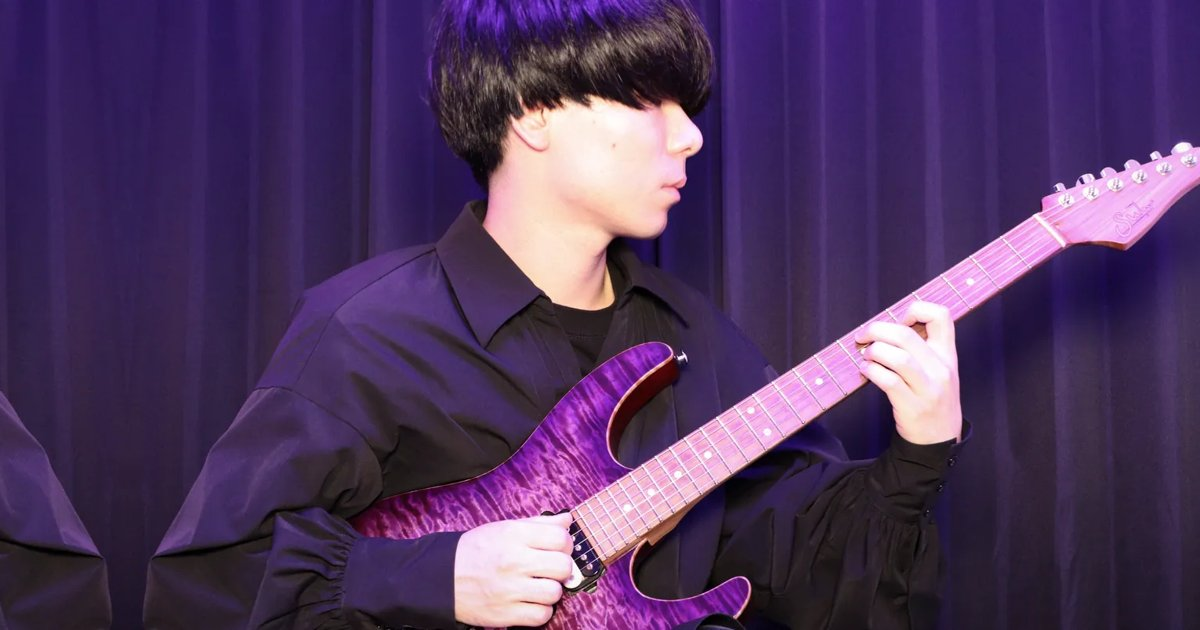
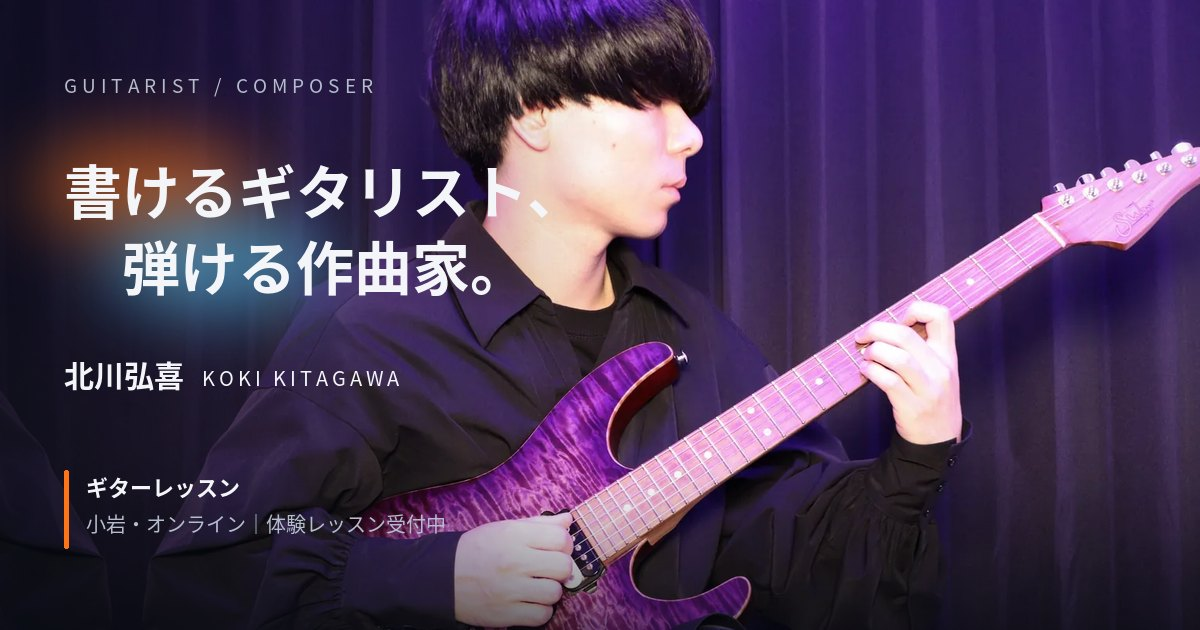
共有したときの見え方とアイコン、404ページを整える：共有画像に名前とキャッチ、ホーム画面・タブのアイコン、迷子のページ（LINE・Xで送られたときにだれのページか一目で分かり、間違ったURLでも迷わないように）
- 共有画像（img/ogp.jpg）：トップの写真に「書けるギタリスト、弾ける作曲家。」「北川弘喜」「ギターレッスン 小岩・オンライン」を入れた（tools/make-share-images.py で作る）
- og:site_name・og:locale・画像の大きさと説明を追加
- アイコン：タブ（favicon.svg／favicon-48.png）、ホーム画面（apple-touch-icon.png）、Android 用（icon-192／512・site.webmanifest）。弦3本（白・オレンジ・水色）。本人のイラスト版は後で差し替え予定
- 404.html：見つからないときのページ（トップへ戻る・体験レッスン・お問い合わせ）

Claude-Session: https://claude.ai/code/session_01EAvGth7ZWopaKH8TuJXvXX

Changed region(s): [[0.0, 0.0, 0.6475, 1.0], [0.3083, 0.0, 0.3392, 0.0302]]

diff --git a/index.html b/index.html
@@ -8,11 +8,16 @@
 <title>北川弘喜 | ギタリスト・作曲家／小岩・オンラインのギターレッスン Koki Kitagawa</title>
 <meta name="description" content="書けるギタリスト、弾ける作曲家。北川弘喜（Koki Kitagawa）の公式サイト。ライブ・舞台・TVでのサポートギター、作詞・作曲・編曲。ギターレッスンは小岩（JR小岩駅近くのスタジオ）とオンラインで、初心者からプロ志向まで。">
 <meta property="og:type" content="website">
+<meta property="og:site_name" content="北川弘喜 Koki Kitagawa">
+<meta property="og:locale" content="ja_JP">
 <meta property="og:title" content="北川弘喜 Koki Kitagawa | 書けるギタリスト、弾ける作曲家。">
 <meta property="og:description" content="ライブ・舞台・TVのサポートギター、作詞・作曲・編曲、ギターレッスン。">
 <link rel="canonical" href="https://kokikitagawa.com/">
 <meta property="og:url" content="https://kokikitagawa.com/">
 <meta property="og:image" content="https://kokikitagawa.com/img/ogp.jpg">
+<meta property="og:image:width" content="1200">
+<meta property="og:image:height" content="630">
+<meta property="og:image:alt" content="ギターを弾く北川弘喜。書けるギタリスト、弾ける作曲家。">
 <meta name="twitter:card" content="summary_large_image">
 <script type="application/ld+json">{"@context":"https://schema.org","@type":"Person","name":"北川弘喜","alternateName":"Koki Kitagawa","jobTitle":["ギタリスト","作曲家","編曲家","ギター講師"],"description":"書けるギタリスト、弾ける作曲家。ライブ・舞台・TVのサポートギター、作詞・作曲・編曲、ギターレッスン。","address":{"@type":"PostalAddress","addressRegion":"東京都","addressLocality":"江戸川区"},"url":"https://kokikitagawa.com/","sameAs":["https://www.instagram.com/kitagawa_kouki/","https://www.tiktok.com/@koki.kitagawa","https://x.com/Gt_koki_","https://www.youtube.com/@KokiKitagawa","https://open.spotify.com/playlist/4vF3Pt0G9U2wvwlmTueu7q"]}</script>
 <script type="application/ld+json">{"@context":"https://schema.org","@type":"Service","name":"北川弘喜のギターレッスン（小岩・オンライン）","serviceType":"ギターレッスン","provider":{"@type":"Person","name":"北川弘喜","url":"https://kokikitagawa.com/"},"areaServed":[{"@type":"Place","name":"東京都江戸川区 小岩"},{"@type":"Place","name":"オンライン"}],"availableChannel":{"@type":"ServiceChannel","serviceLocation":{"@type":"Place","name":"サウンドスタジオM小岩店","address":{"@type":"PostalAddress","addressRegion":"東京都","addressLocality":"江戸川区","streetAddress":"西小岩1-27-16 オルフェウスビル4F"}}},"offers":[{"@type":"Offer","name":"体験レッスン（60分）","price":3500,"priceCurrency":"JPY"},{"@type":"Offer","name":"単発レッスン（60分）","price":9000,"priceCurrency":"JPY"}],"url":"https://kokikitagawa.com/#lesson"}</script>
@@ -20,8 +25,12 @@
 <link rel="preconnect" href="https://fonts.gstatic.com" crossorigin>
 <link href="https://fonts.googleapis.com/css2?family=Archivo:wdth,wght@62..125,300..900&family=Zen+Kaku+Gothic+New:wght@400;500;700;900&family=Mrs+Saint+Delafield&display=swap" rel="stylesheet">
 <link rel="icon" href="assets/favicon.svg" type="image/svg+xml">
+<link rel="icon" href="assets/favicon-48.png" sizes="48x48" type="image/png">
+<link rel="apple-touch-icon" href="assets/apple-touch-icon.png">
+<link rel="manifest" href="site.webmanifest">
+<meta name="apple-mobile-web-app-title" content="北川弘喜">
 <link rel="stylesheet" href="assets/css/kk-design-system.css?v=69foca">
-<link rel="stylesheet" href="assets/css/site.css?v=19stlfs">
+<link rel="stylesheet" href="assets/css/site.css?v=127jznu">
 <style>.ph-guitar::before{background-image:url("img/guitar-900.webp")}.ph-studio::before{background-image:url("img/studio-1000.webp")}.ph-lesson::before{background-image:url("img/lesson-900.webp")}.ph-stage::before{background-image:url("img/stage-1000.webp")}.ph-live::before{background-image:url("img/live-720.webp")}.ph-pedal::before{background-image:url("img/pedal-1200.webp")}.ph-play::before{background-image:url("img/play-1400.webp")}.ph-desk::before{background-image:url("img/desk-900.webp")}.ph-hands::before{background-image:url("img/hands-1400.webp")}.ph-guitars::before{background-image:url("img/guitars-900.webp")}#profile.sbg::before{background-image:url("img/profile-900.webp")}#works.sbg::before{background-image:url("img/studio-1000.webp")}#lesson.sbg::before{background-image:url("img/lesson-900.webp")}</style>
 <script>document.documentElement.classList.add("js")</script>
 </head>

diff --git a/404.html b/404.html
@@ -1,0 +1,31 @@
+<!doctype html>
+<html lang="ja">
+<head>
+<meta charset="utf-8">
+<meta name="viewport" content="width=device-width, initial-scale=1, viewport-fit=cover">
+<meta name="color-scheme" content="dark">
+<meta name="theme-color" content="#06080d">
+<title>ページが見つかりません | 北川弘喜 Koki Kitagawa</title>
+<meta name="robots" content="noindex">
+<link rel="preconnect" href="https://fonts.googleapis.com">
+<link rel="preconnect" href="https://fonts.gstatic.com" crossorigin>
+<link href="https://fonts.googleapis.com/css2?family=Archivo:wdth,wght@62..125,300..900&family=Zen+Kaku+Gothic+New:wght@400;500;700;900&display=swap" rel="stylesheet">
+<link rel="icon" href="https://kokikitagawa.com/assets/favicon.svg" type="image/svg+xml">
+<link rel="icon" href="https://kokikitagawa.com/assets/favicon-48.png" sizes="48x48" type="image/png">
+<link rel="apple-touch-icon" href="https://kokikitagawa.com/assets/apple-touch-icon.png">
+<link rel="stylesheet" href="https://kokikitagawa.com/assets/css/kk-design-system.css?v=69foca">
+<link rel="stylesheet" href="https://kokikitagawa.com/assets/css/site.css?v=127jznu">
+</head>
+<body class="doc">
+<header class="hd solid"><div class="wrap"><a class="logo" href="https://kokikitagawa.com/">KOKI KITAGAWA<small>GUITARIST / COMPOSER</small></a></div></header>
+<main class="wrap docw nf">
+  <div class="sh"><span class="no">404</span><h2>Not Found</h2><p>ページが見つかりませんでした</p></div>
+  <p class="nf-lead">お探しのページは、URLが変わったか、なくなった可能性があります。<br>お手数ですが、トップページからお探しください。</p>
+  <div class="nf-btns">
+    <a class="btn line" href="https://kokikitagawa.com/">トップへ戻る</a>
+    <a class="btn or" href="https://kokikitagawa.com/#lesson">体験レッスンを見る</a>
+    <a class="btn gr" href="https://kokikitagawa.com/#contact">お問い合わせ</a>
+  </div>
+</main>
+</body>
+</html>

diff --git a/src/template.html b/src/template.html
@@ -8,6 +8,8 @@
 <title>北川弘喜 | ギタリスト・作曲家／小岩・オンラインのギターレッスン Koki Kitagawa</title>
 <meta name="description" content="書けるギタリスト、弾ける作曲家。北川弘喜（Koki Kitagawa）の公式サイト。ライブ・舞台・TVでのサポートギター、作詞・作曲・編曲。ギターレッスンは小岩（JR小岩駅近くのスタジオ）とオンラインで、初心者からプロ志向まで。">
 <meta property="og:type" content="website">
+<meta property="og:site_name" content="北川弘喜 Koki Kitagawa">
+<meta property="og:locale" content="ja_JP">
 <meta property="og:title" content="北川弘喜 Koki Kitagawa | 書けるギタリスト、弾ける作曲家。">
 <meta property="og:description" content="ライブ・舞台・TVのサポートギター、作詞・作曲・編曲、ギターレッスン。">
 <!--@meta-->
@@ -17,6 +19,10 @@
 <link rel="preconnect" href="https://fonts.gstatic.com" crossorigin>
 <link href="https://fonts.googleapis.com/css2?family=Archivo:wdth,wght@62..125,300..900&family=Zen+Kaku+Gothic+New:wght@400;500;700;900&family=Mrs+Saint+Delafield&display=swap" rel="stylesheet">
 <link rel="icon" href="assets/favicon.svg" type="image/svg+xml">
+<link rel="icon" href="assets/favicon-48.png" sizes="48x48" type="image/png">
+<link rel="apple-touch-icon" href="assets/apple-touch-icon.png">
+<link rel="manifest" href="site.webmanifest">
+<meta name="apple-mobile-web-app-title" content="北川弘喜">
 <link rel="stylesheet" href="assets/css/kk-design-system.css">
 <link rel="stylesheet" href="assets/css/site.css">
 <!--@phstyle-->

diff --git a/privacy.html b/privacy.html
@@ -12,8 +12,10 @@
 <link rel="preconnect" href="https://fonts.gstatic.com" crossorigin>
 <link href="https://fonts.googleapis.com/css2?family=Archivo:wdth,wght@62..125,300..900&family=Zen+Kaku+Gothic+New:wght@400;500;700;900&display=swap" rel="stylesheet">
 <link rel="icon" href="assets/favicon.svg" type="image/svg+xml">
+<link rel="icon" href="assets/favicon-48.png" sizes="48x48" type="image/png">
+<link rel="apple-touch-icon" href="assets/apple-touch-icon.png">
 <link rel="stylesheet" href="assets/css/kk-design-system.css?v=69foca">
-<link rel="stylesheet" href="assets/css/site.css?v=19stlfs">
+<link rel="stylesheet" href="assets/css/site.css?v=127jznu">
 </head>
 <body class="doc">
 <header class="hd solid"><div class="wrap"><a class="logo" href="./">KOKI KITAGAWA<small>GUITARIST / COMPOSER</small></a></div></header>

diff --git a/assets/css/site.css b/assets/css/site.css
@@ -894,6 +894,10 @@ section.s.pb{isolation:isolate;overflow:clip}
 .dsec{padding:22px 0;border-top:1px solid var(--line)}
 .dsec h3{margin:0 0 8px;font-size:16px}
 .dsec p{margin:0;color:var(--sub);font-size:14.5px}
+/* 404（ページが見つからないとき） */
+.nf-lead{color:var(--sub);font-size:15px;line-height:2;margin:8px 0 36px}
+.nf-btns{display:flex;flex-wrap:wrap;gap:12px}
+@media (max-width:520px){.nf-btns .btn{flex:1 1 100%}}
 /* v5 調整 */
 .hero picture img{object-position:32% 30%}
 @media (max-width:820px){.hero picture img{object-position:62% 30%}}

diff --git a/tools/make-share-images.py b/tools/make-share-images.py
@@ -1,0 +1,98 @@
+# tools/make-share-images.py — SNSで共有したときの画像（img/ogp.jpg）と、ホーム画面・タブのアイコンを書き出す。
+# 使い方：サイト本体のフォルダで  python3 tools/make-share-images.py   （Pillow と numpy が必要）
+# 2026-10-15：共有画像に名前とキャッチを入れた（LINE・X・Facebookで送られたとき、だれのページか一目で分かるように）。
+#   写真は img/hero-pc-2000.webp（トップと同じ）。色はトップの光（オレンジ・水色）と同じ。新しい色は足していない。
+import os, sys, numpy as np
+from PIL import Image, ImageDraw, ImageFilter, ImageFont
+H = os.path.dirname(os.path.dirname(os.path.abspath(__file__)))
+if len(sys.argv) > 1: H = sys.argv[1]
+os.chdir(H)
+
+OR = (255, 116, 23); BLUE = (92, 200, 245); INK = (243, 245, 249); SUB = (180, 189, 205); BG = (8, 11, 19)
+
+def font(size, bold=True):
+    names = (["NotoSansCJK-Black.ttc", "NotoSansCJK-Bold.ttc"] if bold else ["NotoSansCJK-Medium.ttc", "NotoSansCJK-Regular.ttc"])
+    dirs = ["/usr/share/fonts/opentype/noto", "/System/Library/Fonts", "/Library/Fonts"]
+    for d in dirs:
+        for n in names:
+            p = os.path.join(d, n)
+            if os.path.exists(p): return ImageFont.truetype(p, size, index=0)   # index 0 = JP
+    for p in ["/System/Library/Fonts/ヒラギノ角ゴシック W8.ttc" if bold else "/System/Library/Fonts/ヒラギノ角ゴシック W5.ttc"]:
+        if os.path.exists(p): return ImageFont.truetype(p, size)
+    raise SystemExit("日本語の書体が見つかりません")
+
+def glow(base, box, color, strength=.85, blur=34):
+    # 文字の後ろに、ぼんやりした光を置く（トップのキャッチと同じ考え方）
+    layer = Image.new("L", base.size, 0); d = ImageDraw.Draw(layer)
+    d.ellipse(box, fill=int(255 * strength)); layer = layer.filter(ImageFilter.GaussianBlur(blur))
+    col = Image.new("RGB", base.size, color)
+    return Image.composite(col, base, layer.point(lambda v: int(v * .75)))
+
+def spaced(d, xy, text, f, fill, track):
+    x, y = xy
+    for ch in text:
+        d.text((x, y), ch, font=f, fill=fill); x += d.textlength(ch, font=f) + track
+    return x
+
+# ---------- 共有画像 1200×630 ----------
+W, Hh = 1200, 630
+src = Image.open("img/hero-pc-2000.webp").convert("RGB"); sw, sh = src.size
+nw = round(sh * W / Hh); x0 = sw - nw - 60
+img = src.crop((x0, 0, x0 + nw, sh)).resize((W, Hh), Image.LANCZOS)
+# 左を暗く（文字を読みやすく）。本人の顔にはかからない
+a = np.asarray(img).astype(np.float32)
+x = np.linspace(0, 1, W)[None, :, None]
+shade = np.clip(1 - (x - .02) / .5, 0, 1) ** 1.3 * .78
+a = a * (1 - shade) + np.array(BG) * shade
+y = np.linspace(0, 1, Hh)[:, None, None]
+bot = np.clip((y - .72) / .28, 0, 1) ** 1.5 * .55
+a = a * (1 - bot) + np.array(BG) * bot
+img = Image.fromarray(a.clip(0, 255).astype(np.uint8))
+
+d = ImageDraw.Draw(img)
+L = 64
+f_small = font(19, bold=False); f_catch = font(58); f_name = font(30); f_en = font(20, bold=False); f_tag = font(22)
+spaced(d, (L, 70), "GUITARIST / COMPOSER", f_small, SUB, 5)
+# キャッチ（2行）。「書ける」の後ろにオレンジ、「弾ける」の後ろに水色の光
+y1, y2 = 146, 222
+w1 = d.textlength("書ける", font=f_catch); w2 = d.textlength("弾ける", font=f_catch)
+img = glow(img, (L - 30, y1 - 4, L + w1 + 20, y1 + 86), OR)
+img = glow(img, (L + 40, y2 - 4, L + 70 + w2 + 20, y2 + 86), BLUE)
+d = ImageDraw.Draw(img)
+d.text((L, y1), "書けるギタリスト、", font=f_catch, fill=INK)
+d.text((L + 58, y2), "弾ける作曲家。", font=f_catch, fill=INK)
+d.text((L, 352), "北川弘喜", font=f_name, fill=INK)
+spaced(d, (L + d.textlength("北川弘喜", font=f_name) + 18, 362), "KOKI KITAGAWA", f_en, INK, 4)
+# 下：レッスンの案内（オレンジの線）
+d.rounded_rectangle((L, 470, L + 4, 548), 2, fill=OR)
+d.text((L + 22, 470), "ギターレッスン", font=f_tag, fill=INK)
+d.text((L + 22, 508), "小岩・オンライン｜体験レッスン受付中", font=font(20, bold=False), fill=SUB)
+img.save("img/ogp.jpg", quality=86, optimize=True, progressive=True)
+print("img/ogp.jpg", img.size)
+
+# ---------- アイコン（ホーム画面・タブ） ----------
+# 夜の色の地に、ギターの弦3本。真ん中はオレンジ、右は水色に光る（キャッチの2色）
+def icon(size, pad=0.0):
+    s = 4 * size  # 大きく描いて縮める（線をなめらかに）
+    im = Image.new("RGB", (s, s), (10, 18, 34))
+    # 地：上が少し明るい紺
+    g = np.linspace(0, 1, s)[:, None, None]
+    top = np.array((26, 37, 57)); bot = np.array((8, 11, 19))
+    im = Image.fromarray((top * (1 - g) + bot * g + np.zeros((s, s, 3))).astype(np.uint8))
+    inner = s * (1 - 2 * pad); o = s * pad
+    xs = [o + inner * r for r in (.30, .50, .70)]
+    cols = [INK, OR, BLUE]; widths = [.034, .05, .042]
+    for xx, c, wr in zip(xs, cols, widths):
+        if c != INK:
+            im = glow(im, (xx - inner * .16, o + inner * .1, xx + inner * .16, o + inner * .9), c, .9, blur=s * .05)
+    d = ImageDraw.Draw(im)
+    for xx, c, wr in zip(xs, cols, widths):
+        w = inner * wr
+        d.rounded_rectangle((xx - w / 2, o + inner * .17, xx + w / 2, o + inner * .83), w / 2, fill=c if c == INK else tuple(min(255, int(v * .55 + 255 * .45)) for v in c))
+    return im.resize((size, size), Image.LANCZOS)
+
+icon(180, .06).save("assets/apple-touch-icon.png", optimize=True)
+icon(192, .06).save("assets/icon-192.png", optimize=True)
+icon(512, .06).save("assets/icon-512.png", optimize=True)
+icon(48).save("assets/favicon-48.png", optimize=True)
+print("assets/ のアイコン 4つ")

diff --git a/tools/make-images.py b/tools/make-images.py
@@ -52,7 +52,5 @@ im=src(LINE,"IMG_1711.jpeg"); out(im,"tubes-blue",1600,sat=1.0,vig=.0,grain=1.0)
 im=src(LINE,"IMG_1713.jpeg"); out(im,"tubes-amber",1600,sat=1.0,vig=.0,grain=1.0,gamma=.9)
 # ライブ写真（前のまま）
 out(Image.open(BASE+"/live-720.webp").convert("RGB"),"live",720,warm=.3,vig=.05)
-# SNSで共有したときの画像（1200×630）
-im=Image.open("img/hero-pc-2000.webp").convert("RGB"); w,h=im.size; nw=round(h*1200/630)   # 本人が入るよう右側を切り出す
-im.crop((w-nw-60,0,w-60,h)).resize((1200,630)).save("img/ogp.jpg",quality=85)
+# SNSで共有したときの画像（1200×630）とアイコンは tools/make-share-images.py（2026-10-15〜。トップの写真を替えたら続けて実行）
 print("ok")
